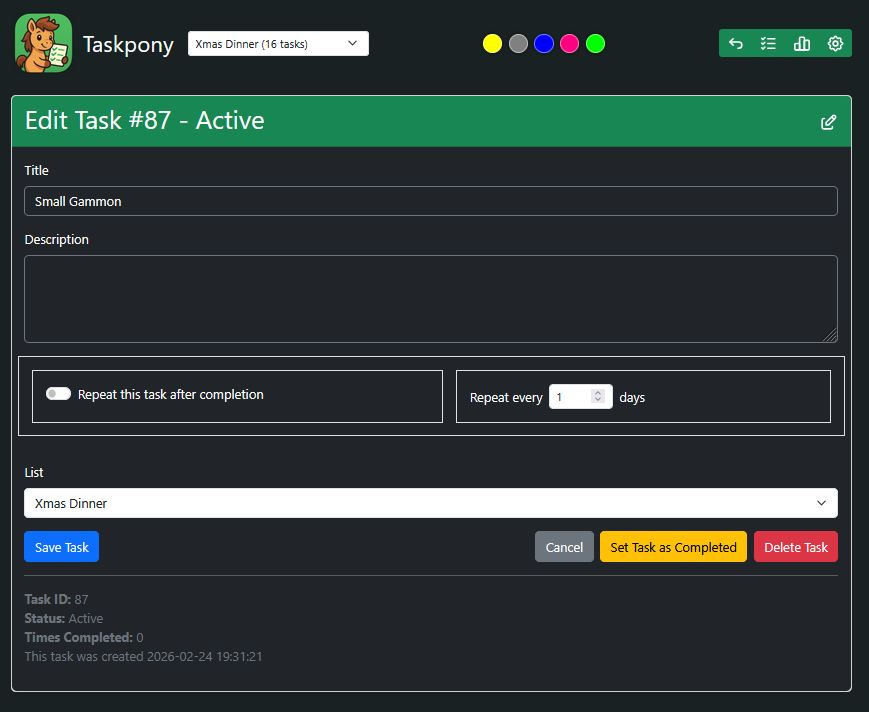
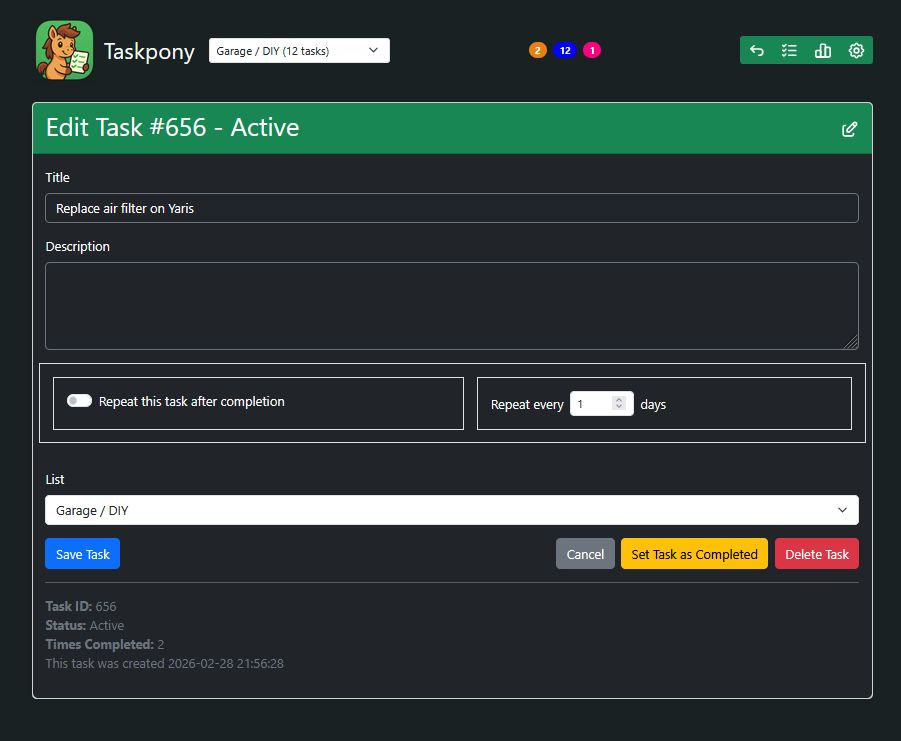
docs and code update

diff --git a/docs/release-notes.md b/docs/release-notes.md
@@ -4,27 +4,27 @@
 
 # 0.6
 
-- This was effectively a full rewrite to split all operations into their own functions to make ongoing development easier and safer. This was a huge operation and also included a lot of new and changed features as I re-assessed the whole project and where I felt it should be going.
+- This is almost a full rewrite to split all operations into their own functions to make ongoing development easier and safer. This was a huge operation and also included a lot of new and changed features as I re-assessed the whole project and where I felt it should be going. Despite that, full backward compatibility is kept so upgrading is as simple as before.
 
 ## Potentially Breaking Change
-- Many URLs have changed to a new form. This may break bookmarks you have for specific areas in the task. An entirely new and consistent url scheme has been adopted.
+- Many URLs have changed to a new form. This may break bookmarks you have for specific areas in the task. An entirely new and more consistent url scheme has been adopted.
 
-## Non Breaking Change
-- List edit page: Title no longer edits the list, but jumps to it. Instead, there is an Edit List button in the Actions column. Tasks columns are combined to save space.
+## Behaviour changes
+- Clicking on the Logo now switches to the Default List. "Taskpony" reloads the Active List.
+- List edit page: Fully remade. Title no longer edits the list, but jumps to it. Instead, there is an Edit List button in the Actions column. Tasks columns are combined to save space.
 - Terminology: "Inactive" lists renamed to "Archived". Makes for betterer English. All links and references updated.
-- Database schema raised to 3 to add a new column: TasksTb.TimesCompleted. Taskpony will handle this upgrade automatically.
+- Database schema raised to 3 to add a new column: TasksTb.TimesCompleted to record how many times a task has been ticked off. Taskpony will handle this upgrade automatically.
 
 ## Features
 
-- Quickswitch dots. On each list you can set a Quickswitch colour which will appear at the top of every page. Click the dot to switch to that list - just a little quicker than selecting from the list for frequently used lists. This replaces the Highlight Colour option which just changed the card header background, so to help remind you which list you're in there's a little flash at the top right of the card for highlighted lists. Lists page also shows what colour is selected for each list - IF enabled.  All this is toggled on and off with the new "Show Quick Switcher" variable in the Settings page.
-- New page /showalltasks  Similar in scope to showing "All Tasks", but this displays a card for each list containing that list's tasks. Button under Lists -> List Actions
-- New page /show-recurring  Lists all the tasks, active or completed, which are set as Recurring. Button under Lists -> List Actions. This page makes it easier to review recurring tasks.
-- New card under /lists for "List Actions" to contain new functions.
-- New form to add a task with description
-- /Lists page now puts all four cards into different tabs to keep things in the eyeline.
-- Clicking the Logo now switches to the Default List. The Taskpony name still reloads the current List.
+- New feature: Quickswitch pills. On each list you can set a Quickswitch colour which will appear at the top of every page containing the number of active tasks within that list. Click the dot to switch to that lis; just a little quicker than selecting from the list for frequently used lists. This replaces the Highlight Colour option which just changed the card header background, so to help remind you which list you're in there's a little flash at the top right of the card for highlighted lists. Lists page also shows what colour is selected for each list IF enabled.  All this is toggled on and off with the new "Show Quick Switcher" variable in the Settings page.
+- New Features under Manage Lists -> List Actions tab
+  - New Feature "Show all tasks"  Similar in scope to showing "All Tasks", but this displays a card for each list containing that list's tasks. Button under Lists -> List Actions
+  - New Feature "Export all tasks" Generates a CSV with all tasks from all lists, active or not. Button under Lists -> List Actions
+  - New Feature "Show recurring tasks" Shows a list of all recurring tasks, making it easier to find them whether they are active or pending. Button under Lists -> List Actions
+  - New Feature "Show orphaned tasks" Similar to above but shows any active tasks that are assigned to an inactive or deleted list.
+- New form to add a task with description. Accessed by the small "+" icon in the gutter of the tasks view.
 - Tooltips now made prettier and added a 250ms delay before they show up.
-- Extensive code rewrite and tidying. This involves changing many endpoint for consistency, neatness and clarity. Eg, /ust=NN now becomes /task_activate/NNN
 - Added a proper 404 page
 - Added an "Export all tasks" function with button from List Actions to generate and send a CSV containing everything.
 - Added a new column to TaskTb, TimesCompleted. This increments by one each time a task is marked as completed. This may be useful to show how many times a recurring task, for example, has been ticked off. The count is shown in the gutter of the Edit Task page.

diff --git a/README.md b/README.md
@@ -27,7 +27,7 @@ Taskpony is a small, single‑user task manager you run yourself. It’s designe
 |-------------------------------------------------------------|--------------------------------------------------|
 | <img src="docs/tasklist.jpg" height="600" align="center"> | <img src="docs/taskpony_mobile.jpg" height="600" align="center"> |
 
-See more in the [Screenshots](#screenshots) section below.
+See more in the [Screenshots](#morescreenshots) section below.
 
 # Features
 
@@ -86,7 +86,7 @@ Then open `http://localhost:5000` (or the host's IP on port 5000) to start using
 - [Goals](#goals)
   - [Supporting Taskpony](#support)
   - [Roadmap](docs/roadmap.md)
-- [Screenshots](#screenshots)
+- [Screenshots](#morescreenshots)
 - [Credits](#credits)
 - [Licence](#licence)
 
@@ -464,7 +464,7 @@ It's not necessary to pay to use Taskpony, but if you wish to show appreciation,
     height="30">
 </a>
 
-# Screenshots
+# More Screenshots
 
 ![Main Task List](docs/tasklist.jpg)
 
